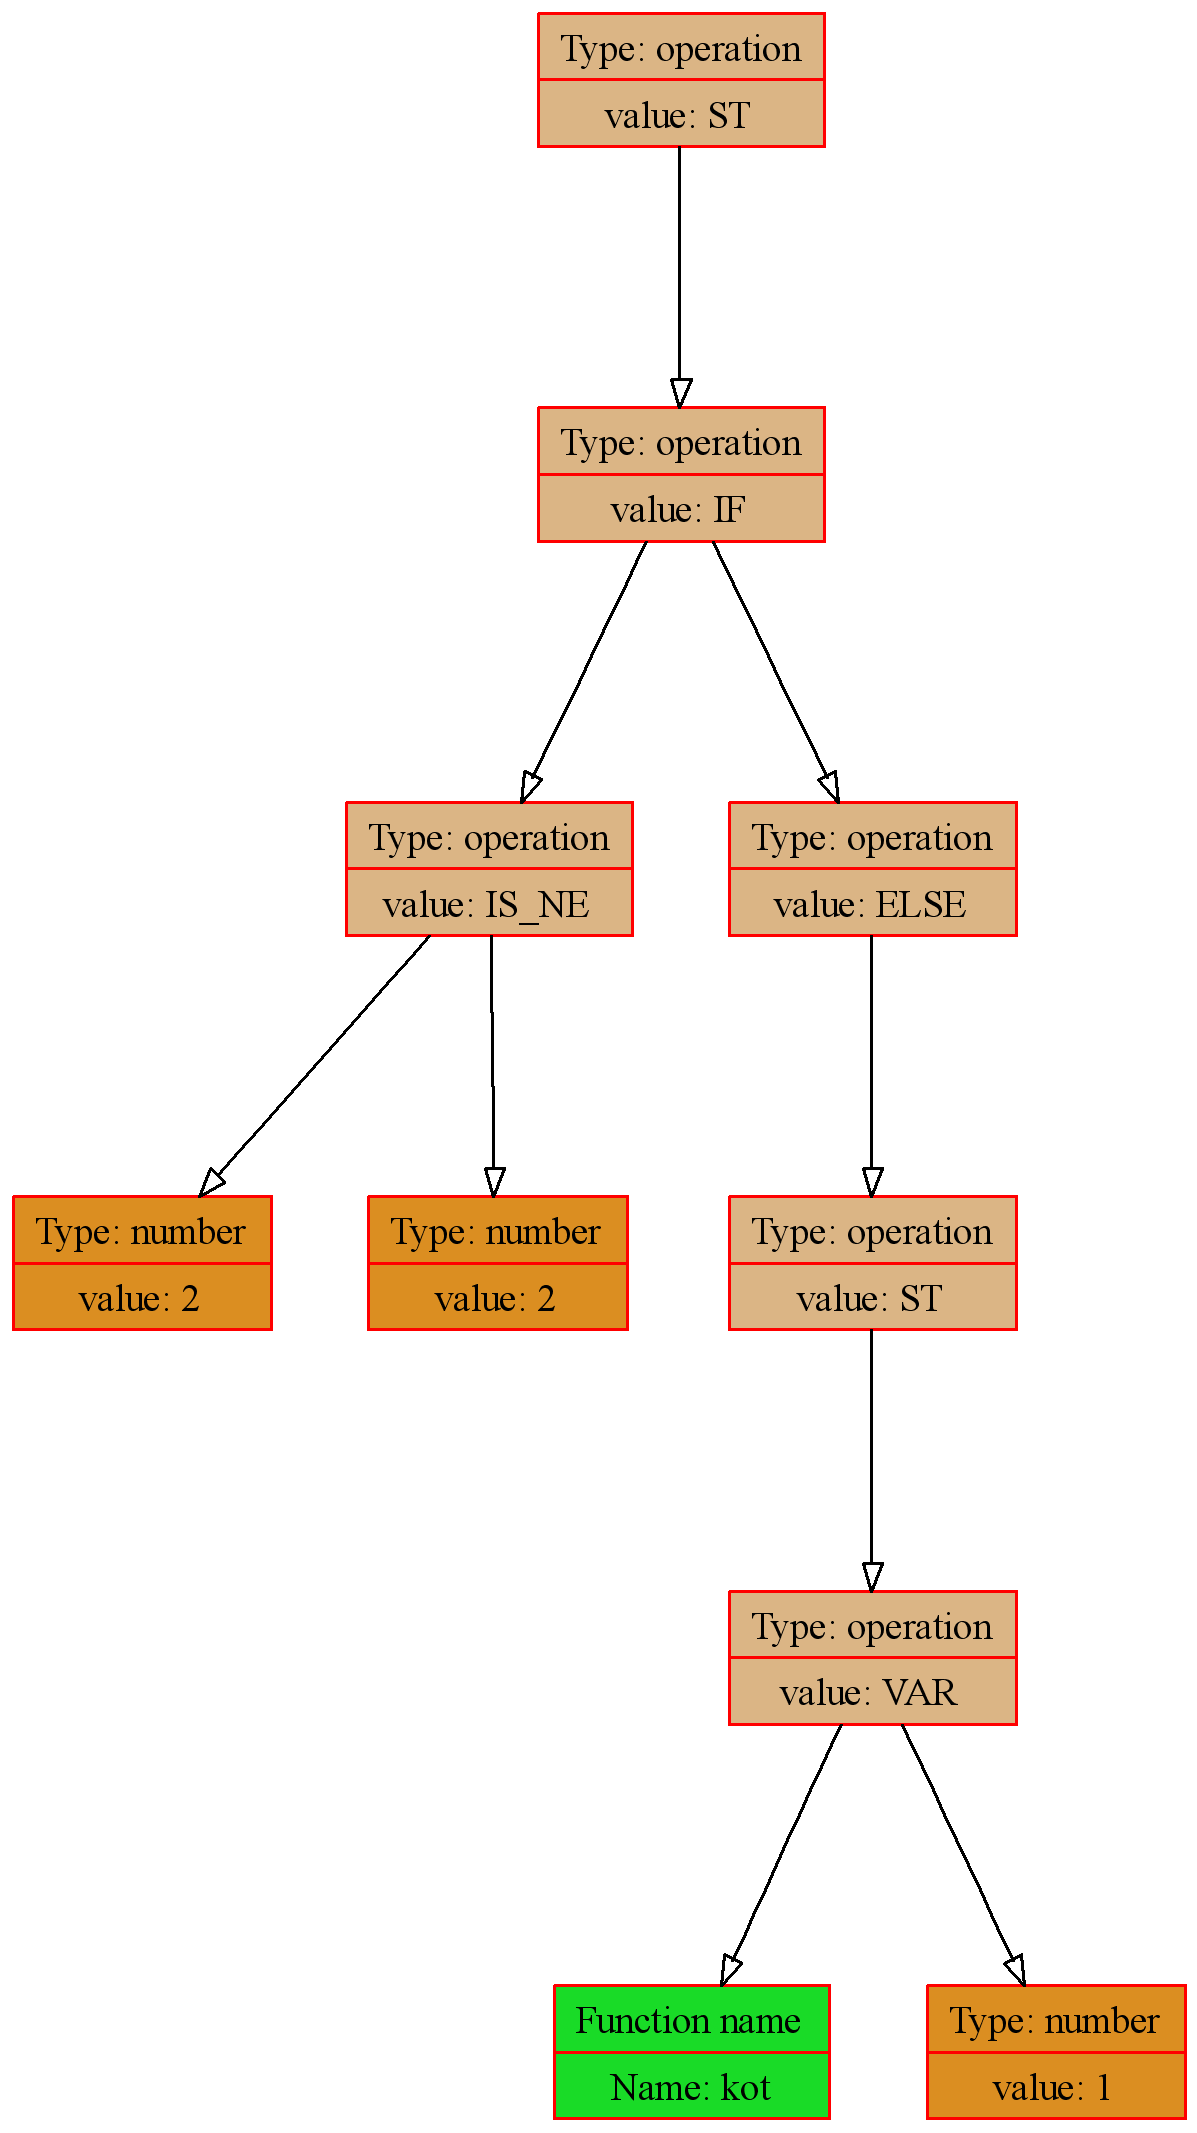
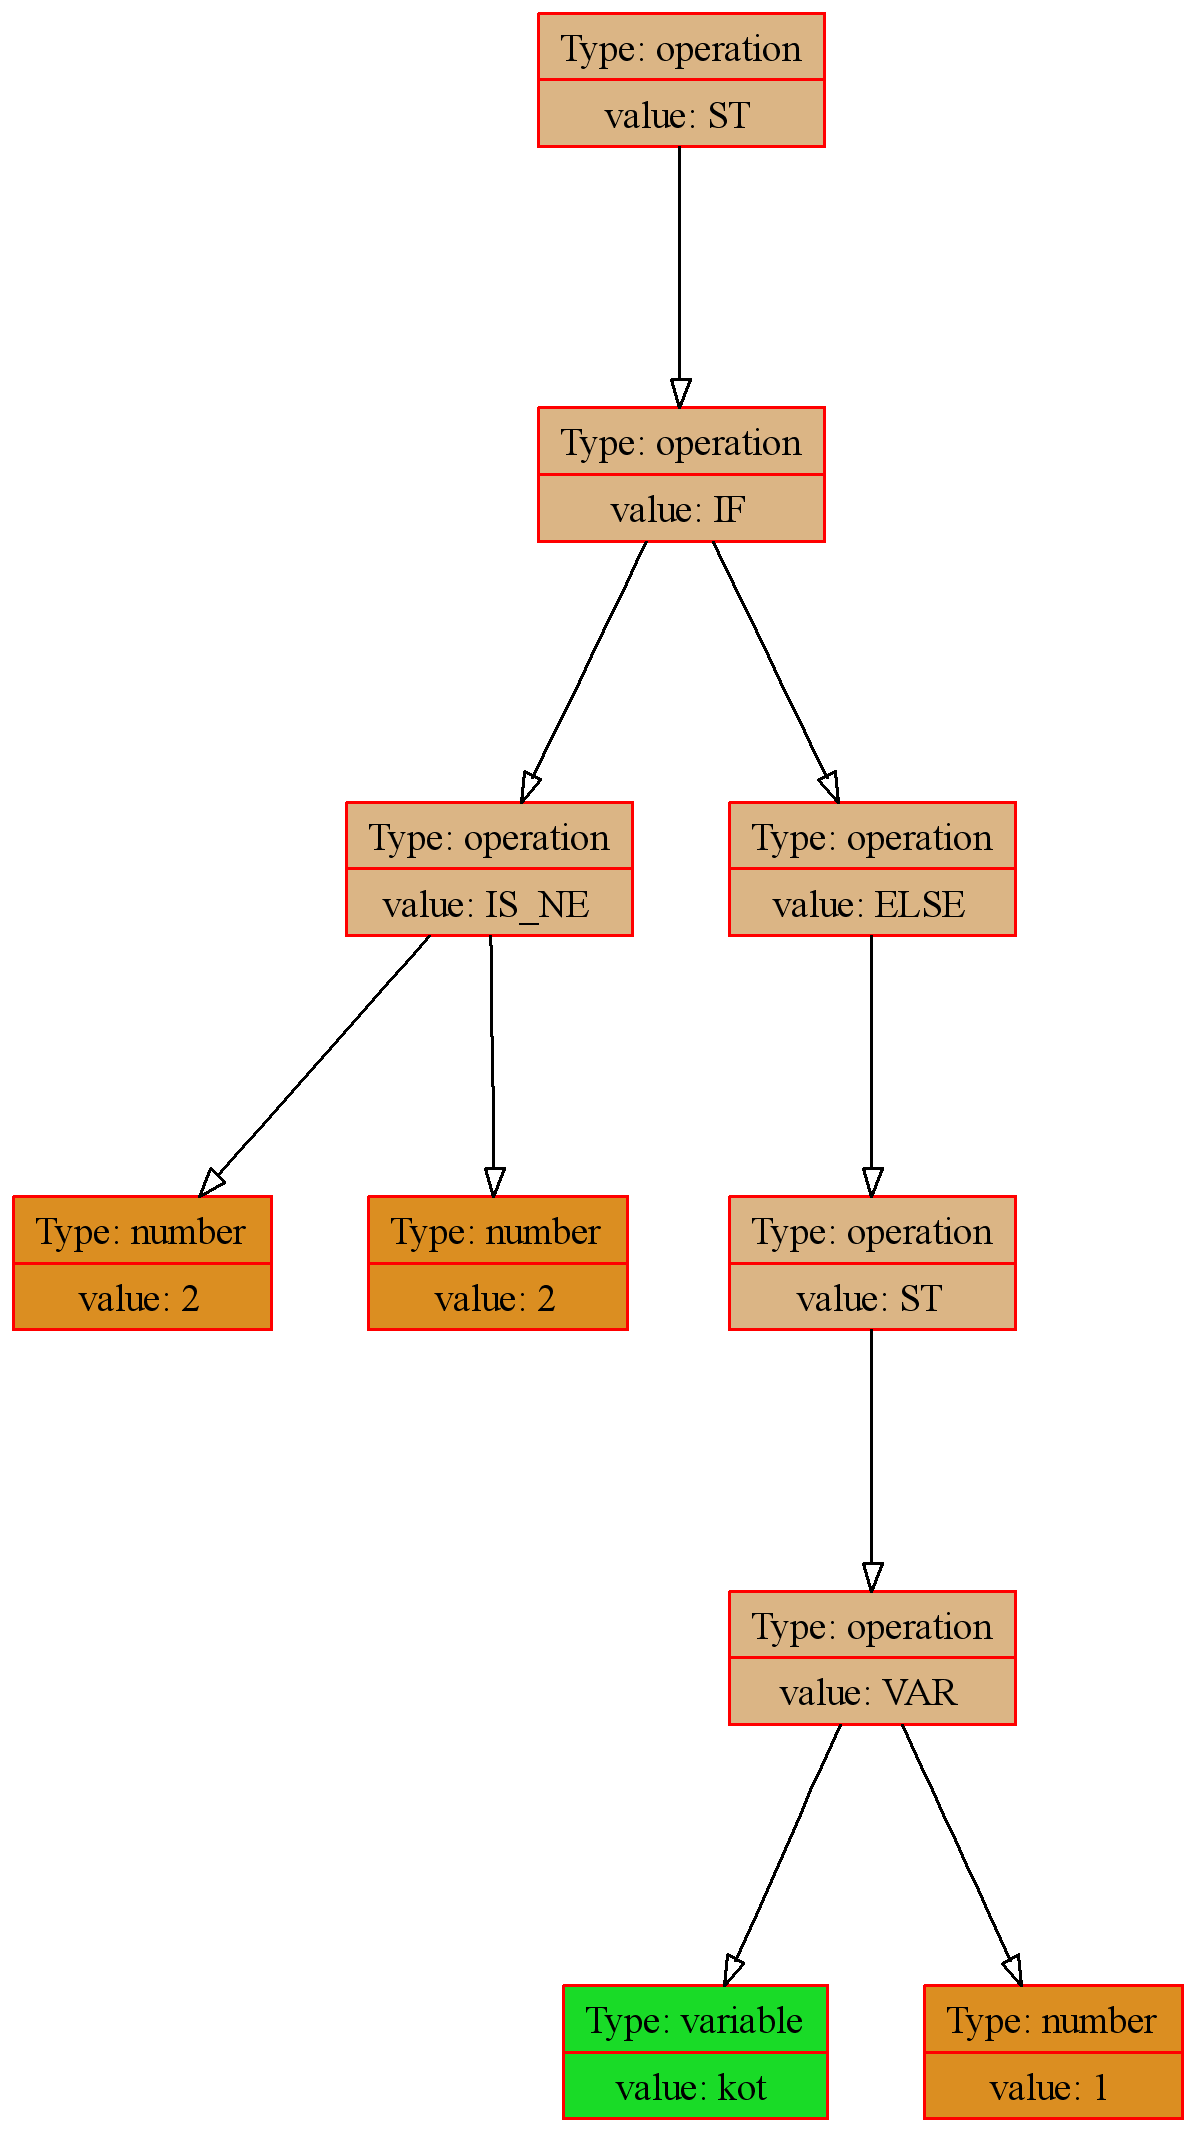
tiny changes

diff --git a/backend/include/dsl.h b/backend/include/dsl.h
@@ -9,6 +9,7 @@
 #define DIGIT_NODE(num) CreateNode (NUM_T, num, UNKNOWN, nullptr, nullptr, nullptr)
 #define OP_NODE(op, l, r) CreateNode (OP_T, 0, op, nullptr, l, r)
 #define NAME_NODE(name, l, r) CreateNode (NAME_T, 0, UNKNOWN, name, l, r)
+#define VAR_NODE(name, l, r) CreateNode (VAR_T, 0, UNKNOWN, name, l, r)
 
 #define ADD(L, R) CreateNode (OP_T, 0, ADD, nullptr, L, R)
 #define SUB(L, R) CreateNode (OP_T, 0, SUB, nullptr, L, R)

diff --git a/backend/src/parser_backend.cpp b/backend/src/parser_backend.cpp
@@ -71,7 +71,7 @@ TreeNode* RecGetChild (Token token_array[], int* cur_token_id)
         VARIABLES_AMOUNT++;
         
         NEXT_TOKEN;
-        return NAME_NODE (PREV_TOKEN.value.var_name, nullptr, nullptr);
+        return VAR_NODE (PREV_TOKEN.value.var_name, nullptr, nullptr);
     }
     else if (CUR_TOKEN.type == NUM_T)
     {
